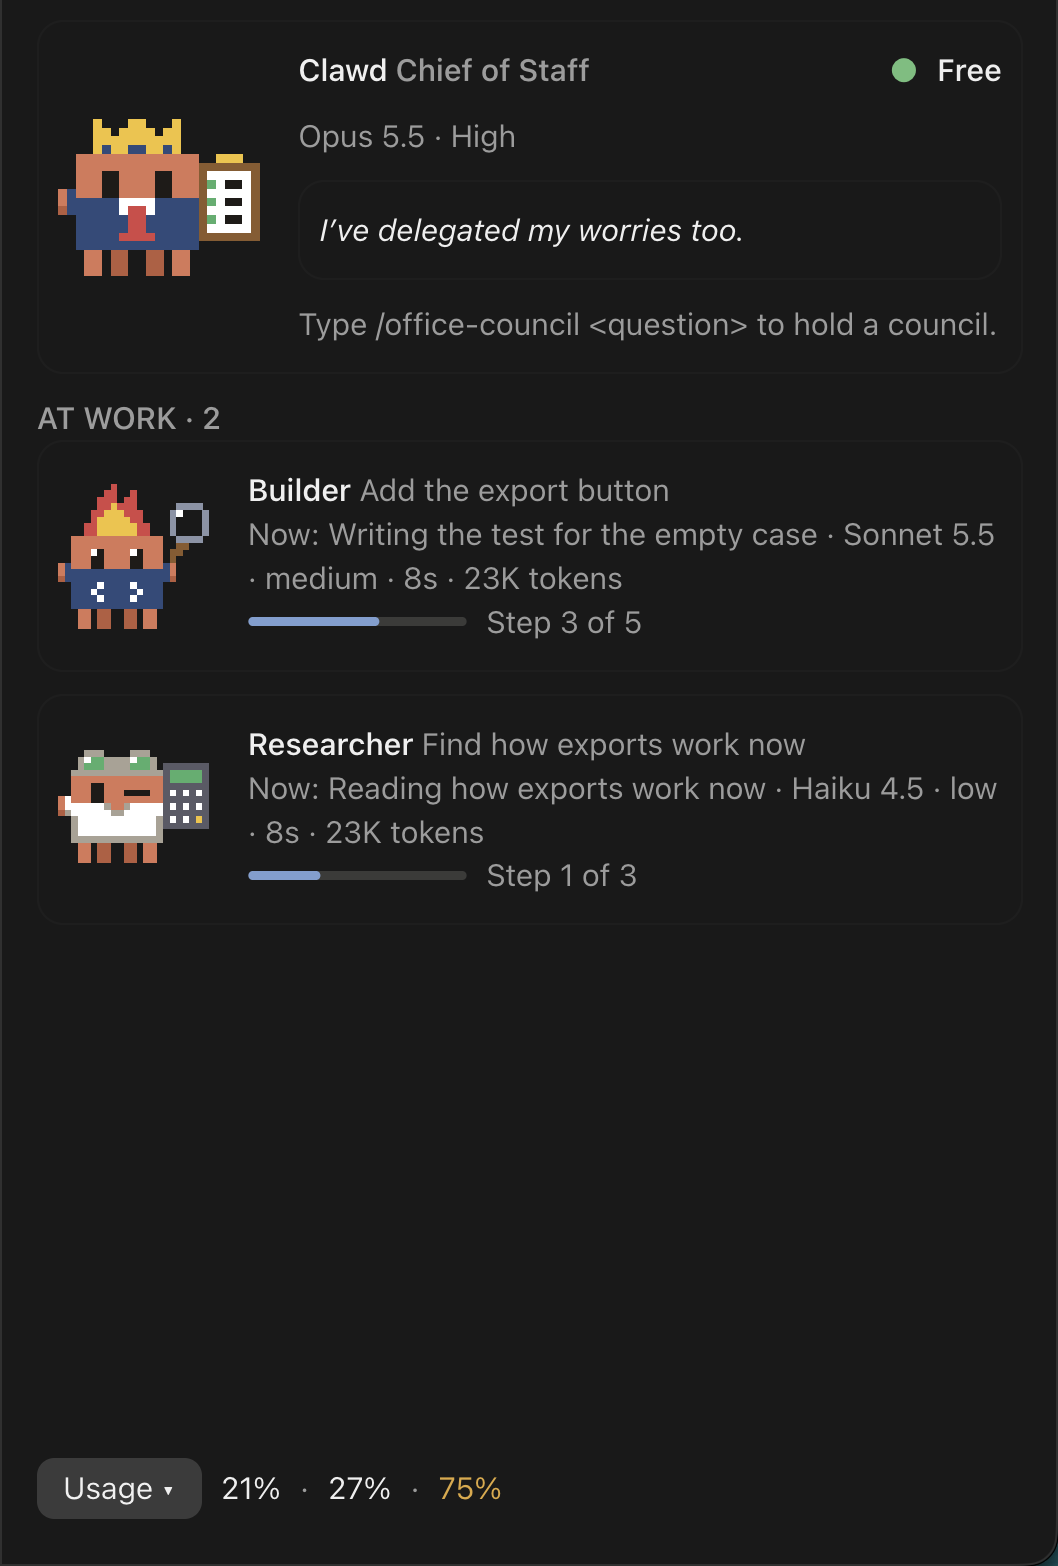
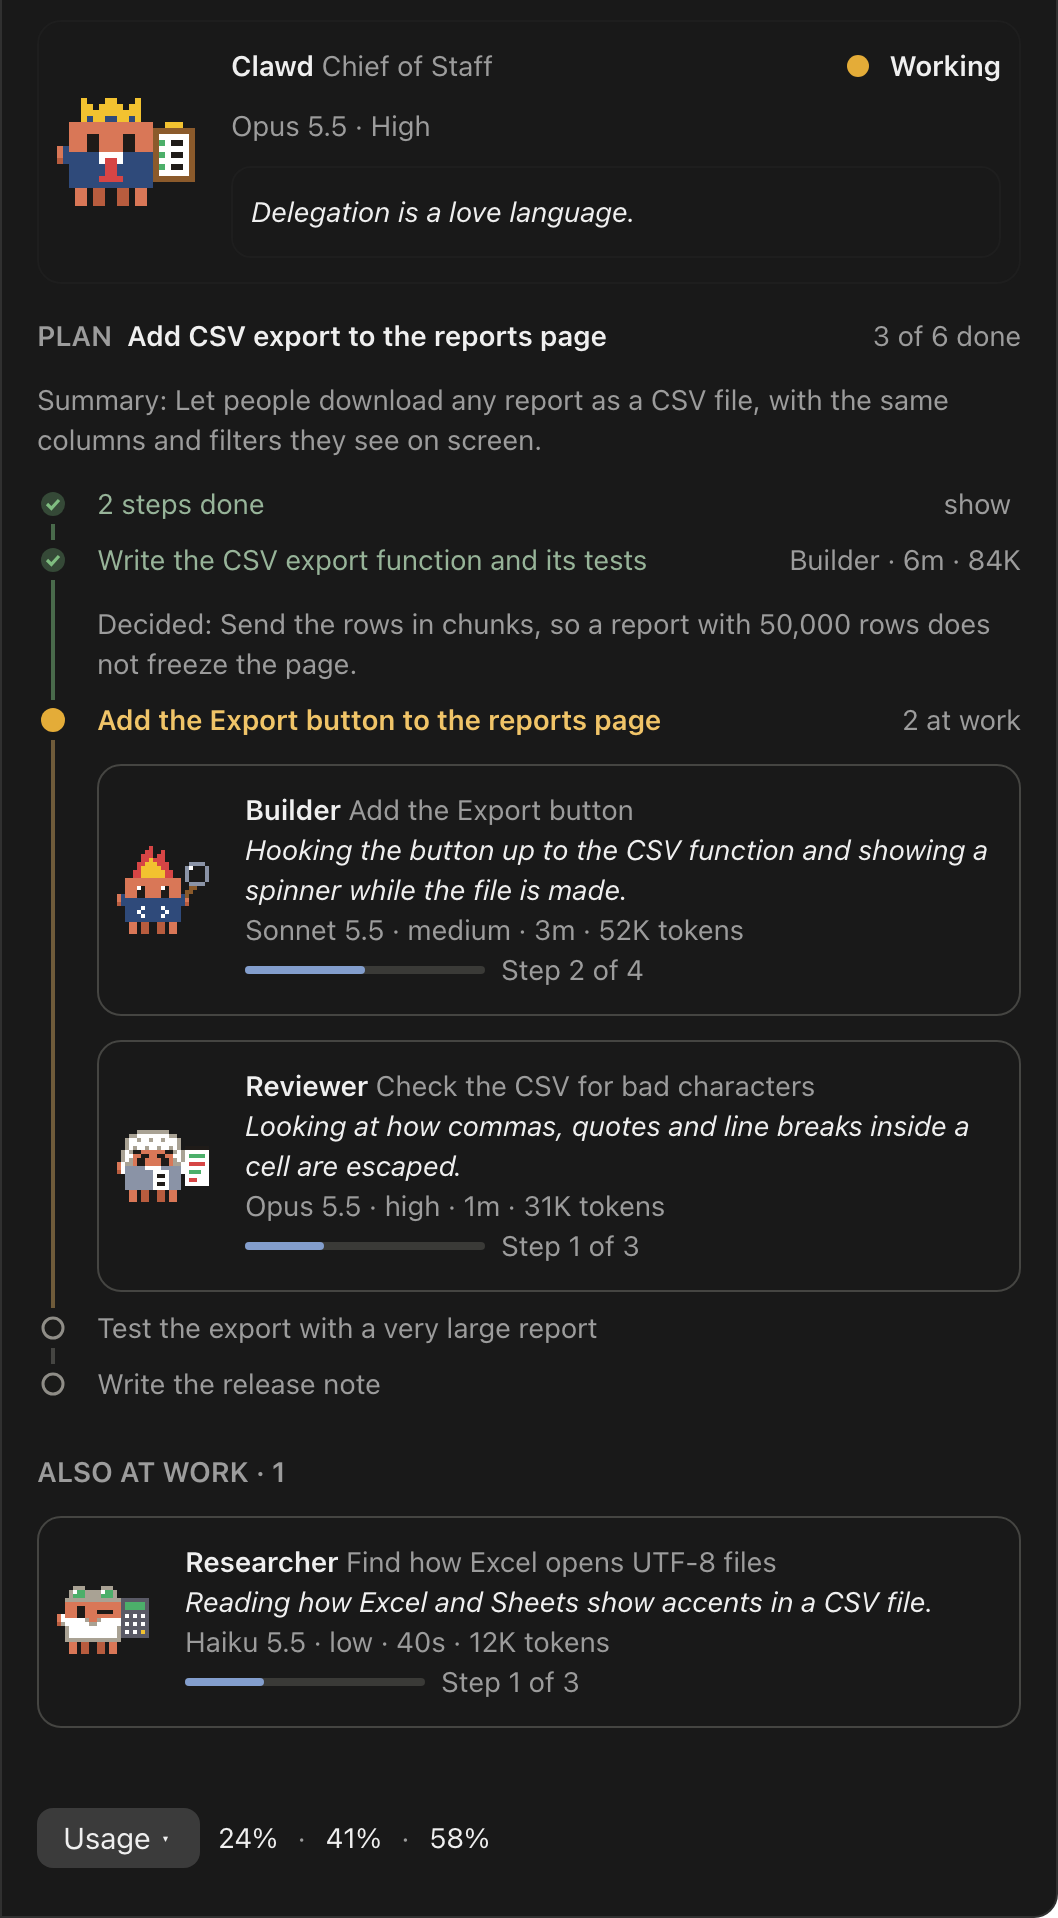
docs: new Office screenshot, demo video, awesome-list badge, weak-match wording

diff --git a/README.md b/README.md
@@ -14,8 +14,11 @@ Brief Clawd once. He picks specialists from your installed helpers, runs indepen
 
 [![Featured on ClaudeMods](https://claudemods.dev/badge/clawd-hq-0299b6.svg?style=large&theme=dark)](https://claudemods.dev/en/builds/clawd-hq-0299b6)
 [![Listed on modsforClaude](https://modsforclaude.com/badge/clawd-hq.svg)](https://modsforclaude.com/mods/clawd-hq/)
+[![Mentioned in Awesome Claude Code Mods](https://awesome.re/mentioned-badge.svg)](https://github.com/karanb192/awesome-claude-code-mods)
 
 </div>
+
+https://github.com/user-attachments/assets/e6984ab3-ad8c-42a7-a6d7-95b0bd81015b
 
 ---
 
@@ -53,7 +56,7 @@ Free to talk is the aim, not a promise. Short direct jobs (a single command, a l
 ### 2. Right team, right size
 
 - **Uses what you already have.** Setup picks your team from the agents and skills you have installed, whether that's ECC or your own. You might have 200 installed, but a project realistically uses 5 to 10, and those are the team. Each brief names the installed skills that fit the job. Nothing new to download.
-- **Hires, doesn't guess.** Before a new kind of job, Clawd searches every installed agent and skill and picks the best fit, saying why when none fits. An off-team skill can be hired for one job as a contractor; hire it twice and he offers to make it staff. Every hire is named. A generalist is the last resort. When nothing installed fits, he says so and searches the public skill registry (skills.sh) on the web, with a few plain keywords for the job. If something fits well he comes back with its name, source and install count and asks whether to install it for this job or go ahead without it. Turn the search off in Settings and he goes straight to the general-purpose agent. Nothing is installed without your yes.
+- **Hires, doesn't guess.** Before a new kind of job, Clawd searches every installed agent and skill and picks the best fit, saying why when none fits. An off-team skill can be hired for one job as a contractor; hire it twice and he offers to make it staff. Every hire is named. A generalist is the last resort. When the installed matches are weak or missing, he also searches the public skill registry (skills.sh) on the web, with a few plain keywords for the job. If something fits well he comes back with its name, source and install count and asks whether to install it for this job or go ahead without it. Turn the search off in Settings and he goes straight to the general-purpose agent. Nothing is installed without your yes.
 - **Right-sized hires.** Each job gets the smallest model and effort that can do it well, from Haiku to Opus. Skills are attached only when they add knowledge, not process: at most two, and none for a one-file edit or a job on the smallest model.
 - **Pair-ups.** Some jobs need more than one kind of specialist. They work on it together, check each other, and come back with one conclusion.
 - **Lay off unused helpers.** Helpers outside the team are laid off on their own, which keeps Clawd's choices short. A card on the Office tab names who was laid off, and search brings any back. This needs Automatic setup on.
@@ -115,7 +118,7 @@ Clawd HQ follows the "elephants and goldfish" idea from Google ([paper](https://
 
 Type `/office` to open it. The Office tab looks like this:
 
-<p align="center"><img src="docs/screenshots/office.png" alt="The Office tab during the demo: Clawd is free while a Builder and a Researcher work, each with its model, tokens and a step-by-step progress bar" width="480"></p>
+<p align="center"><img src="docs/screenshots/office.png" alt="An illustration of the Office tab with a plan in hand: Clawd is working, a Builder and a Reviewer work under the current step of the plan, and a Researcher works beside it, each with its model, tokens and a step-by-step progress bar" width="480"></p>
 
 - **Clawd's card.** His status, with a green, amber or red dot. The chat's model and effort. He stays free while specialists work, and falls asleep when the office is quiet.
 - **Needs you.** What waits on you: "You should know" cards, offers of a rule or of staff, the layoff notice and setup choices.
@@ -177,7 +180,7 @@ All on by default. Flip them in the Settings tab.
 | Automatic setup | Setup runs only when you type `/office-setup`. |
 | You should know | Finished work isn't checked. Claude Code's own note works as usual. |
 | Left undone check | The model check is skipped. Code markers are still read. |
-| Search the public skill registry when nothing fits | Nothing is searched or sent. Clawd uses the general-purpose agent. |
+| Search the public skill registry when matches are weak | Nothing is searched or sent. Clawd uses the general-purpose agent. |
 | Your own voice file | A path to a text file that changes Clawd's tone. Empty by default. |
 
 Clawd's rules also reach scripted runs (`claude -p` and the Agent SDK). Turn off "Clawd runs the chat" if you don't want that.
@@ -200,9 +203,9 @@ Most of it runs on your machine. Model calls use your plan.
 | Left undone check | Haiku | Your request and Clawd's final report |
 | Coffee break | The session's model | One short question on the cached chat |
 | The plan and the history | No model | Nothing is sent. They are files in your project (see "What is stored"). |
-| Nothing installed fits a job | No model. Claude Code fetches up to three skills.sh search pages for the plugin | Up to three searches, each with a few plain words in the address: the keywords for the job, and when they find nothing, words from the job description. The "Search the public skill registry when nothing fits" switch in Settings turns it off. A skill is fetched from its source only if you say yes to installing it. |
+| Installed matches for a job are weak or missing | No model. Claude Code fetches up to three skills.sh search pages for the plugin | Up to three searches, each with a few plain words in the address: the keywords for the job, and when they find nothing, words from the job description. The "Search the public skill registry when matches are weak" switch in Settings turns it off. A skill is fetched from its source only if you say yes to installing it. |
 
-Apart from these calls, the plugin opens no network connections and starts no processes. The registry search is its one web request, made through Claude Code, only when nothing installed fits and the switch is on.
+Apart from these calls, the plugin opens no network connections and starts no processes. The registry search is its one web request, made through Claude Code, only when the installed matches are weak or missing and the switch is on. The job's keywords therefore go to skills.sh more often than when it ran only if nothing matched.
 
 </details>
 
